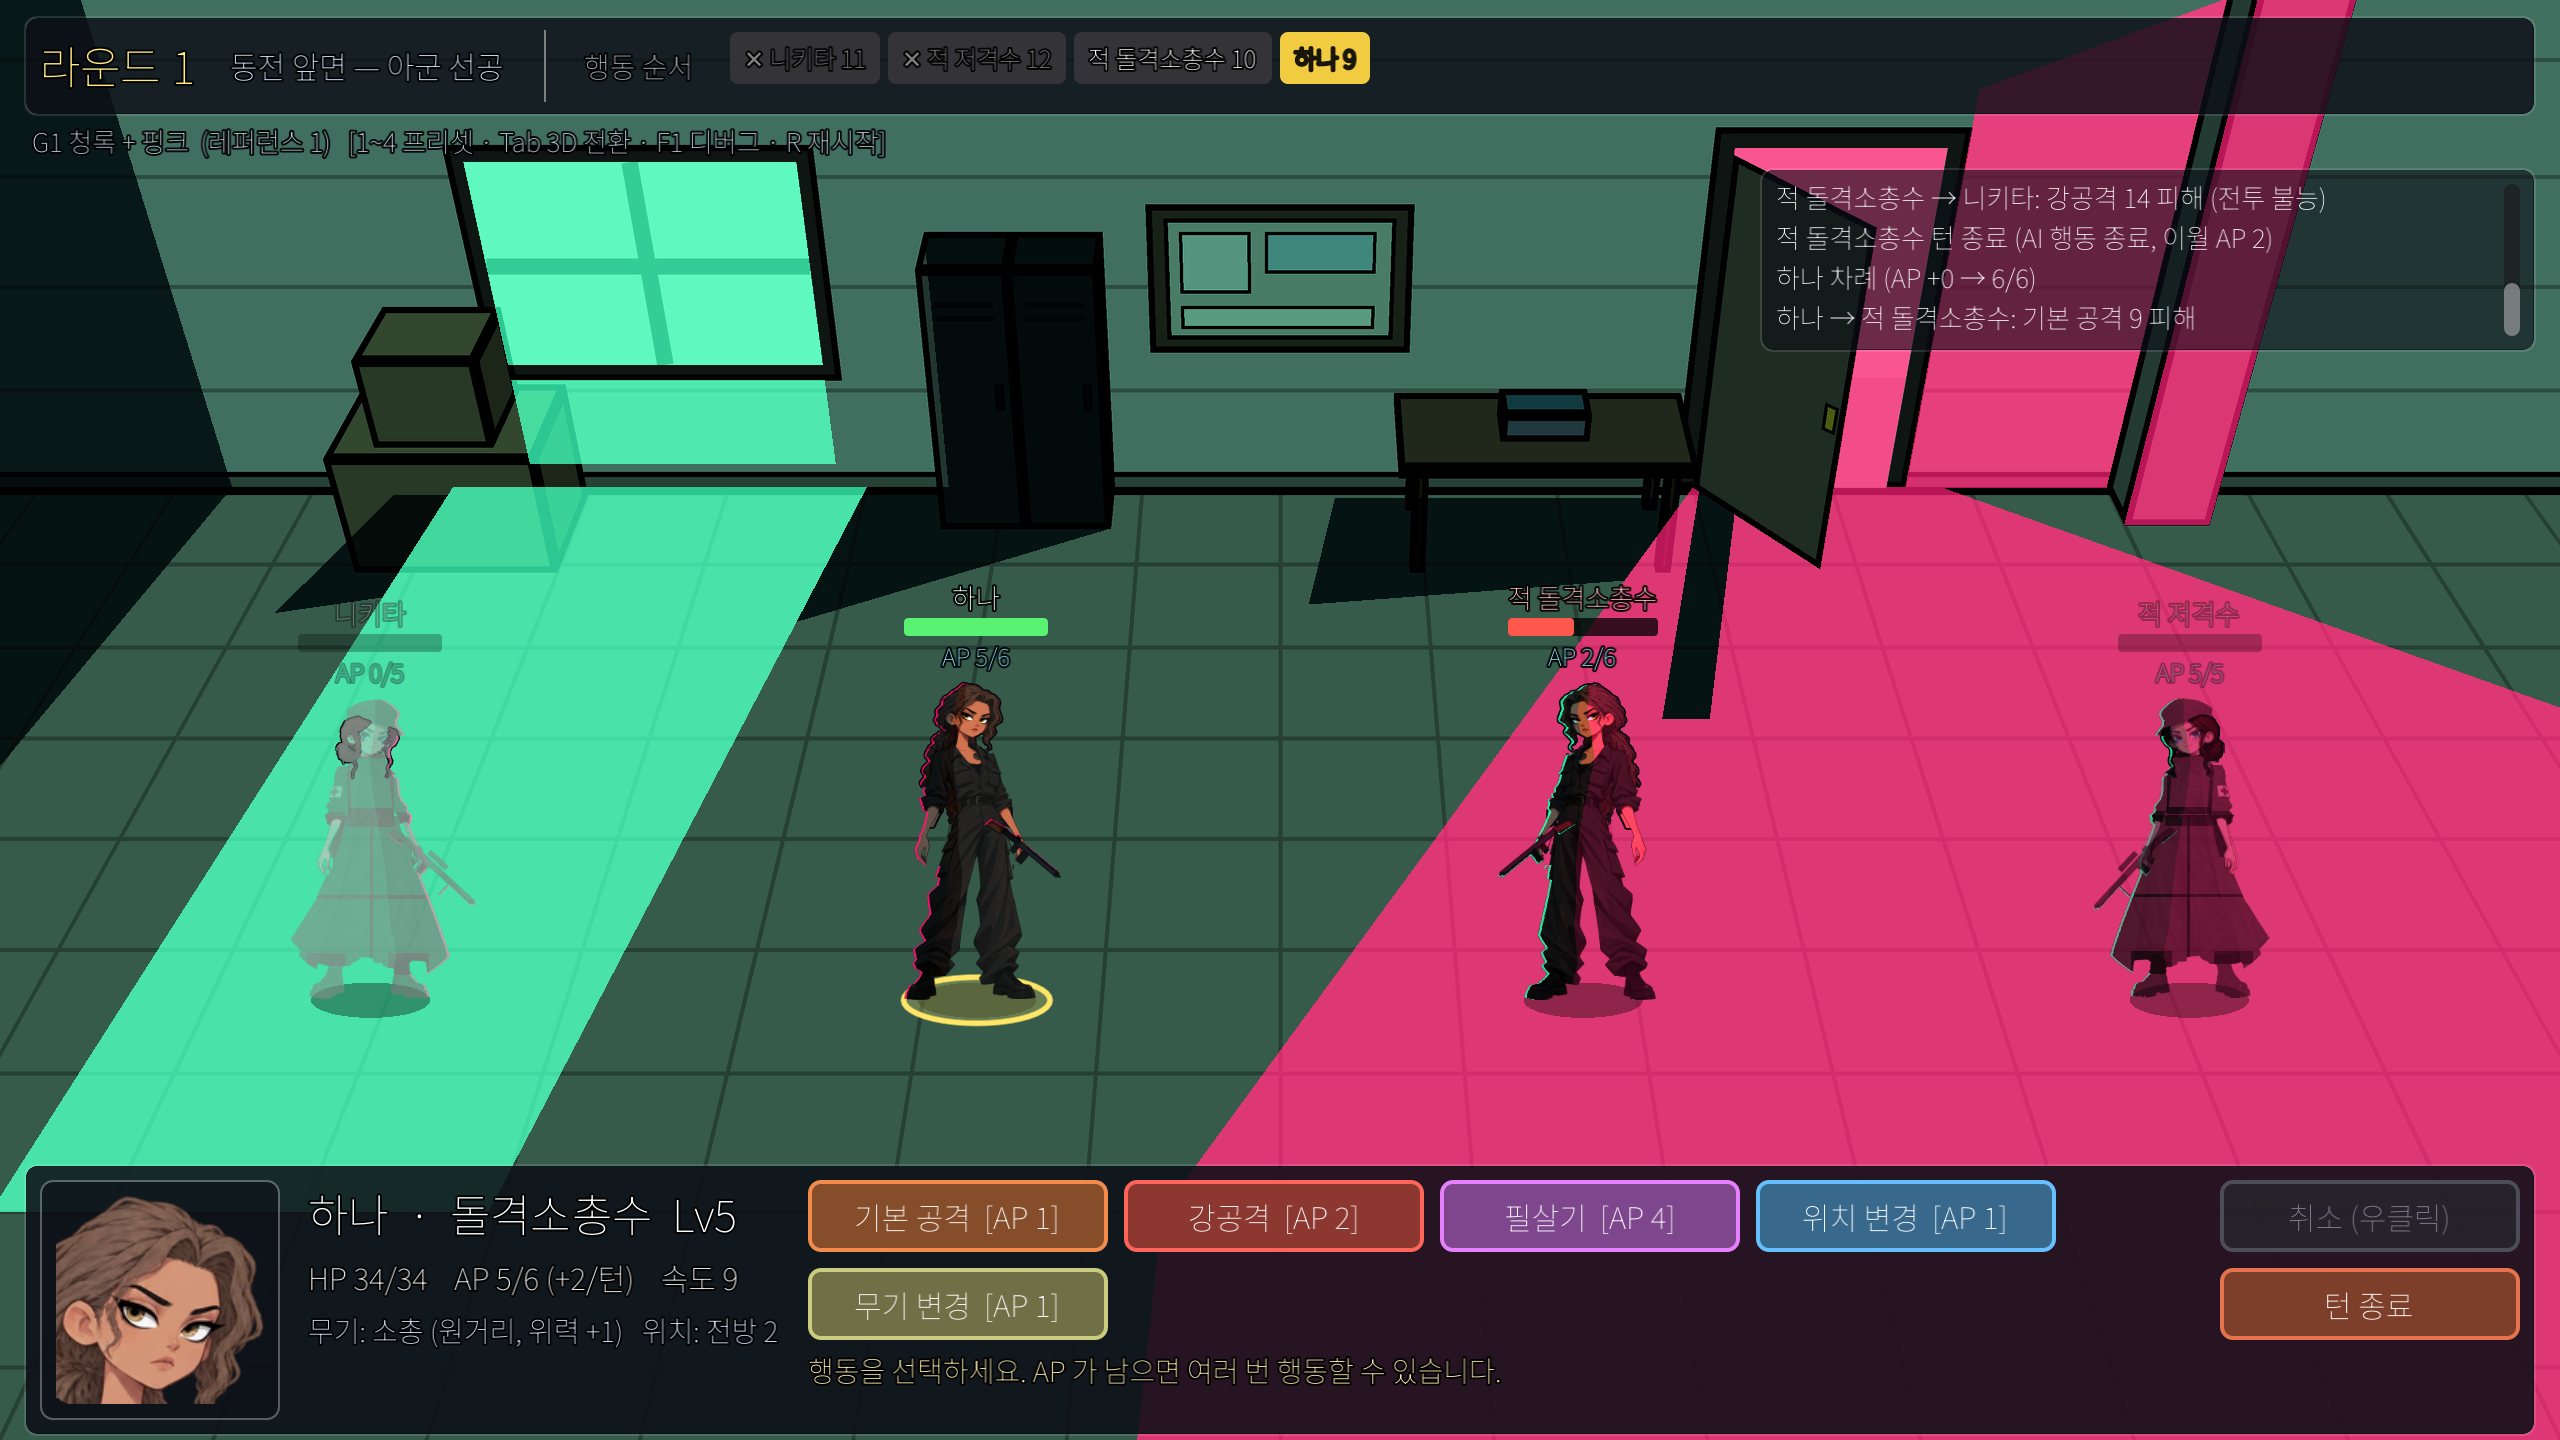
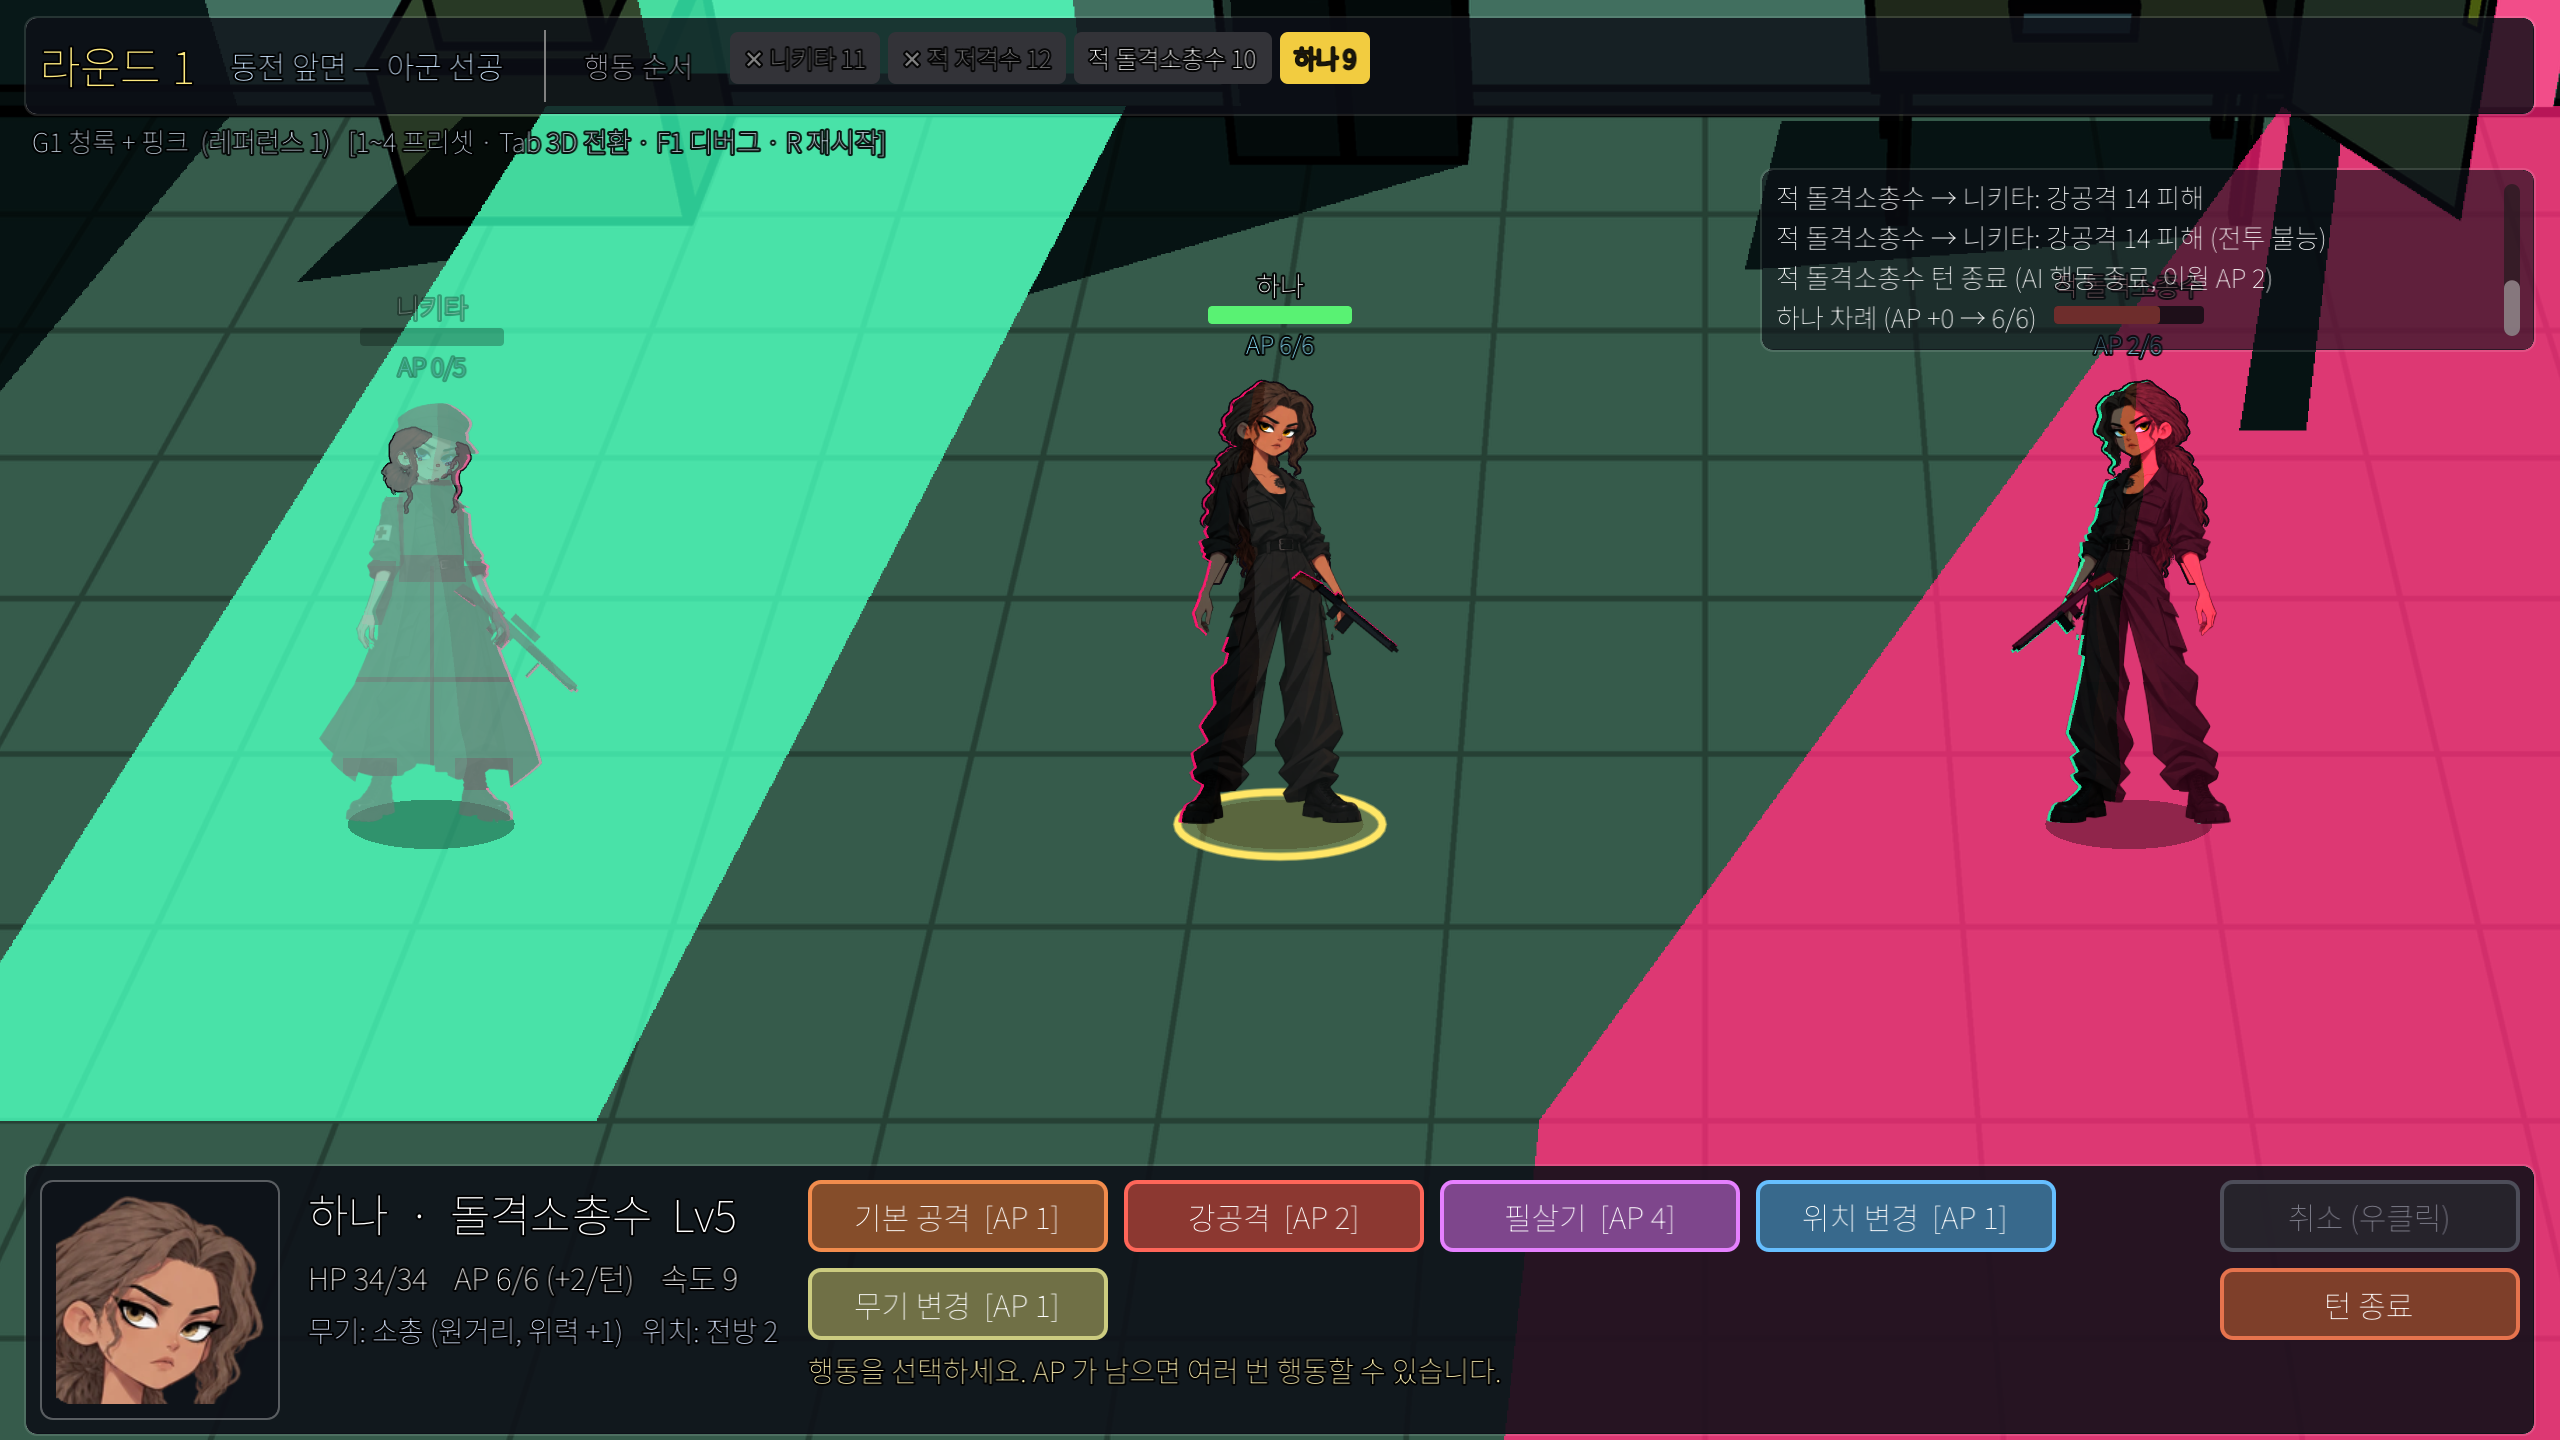
전투 카메라: 시작 시 전체 구도 → 줌인 → 차례 캐릭터 추적
- BattleView2D 에 Camera2D 추가: 전투 시작 1.1초 전체 구도 후 0.9초 동안 1.4배 줌인,
  actor_started 마다 0.55초에 걸쳐 차례 캐릭터를 하단 패널 위 영역 중심으로 이동, 배경 밖 노출 방지
- HP/AP·팝업은 기존 캔버스 변환을 그대로 써서 카메라를 따라감
- CLI --intro=1|hold (스크린샷 기본은 인트로 생략), README, 대표 스크린샷·카메라 시퀀스 이미지

Claude-Session: https://claude.ai/code/session_014aytw3hj7boqn3SZ5GP5ti

diff --git a/README.md b/README.md
@@ -57,6 +57,11 @@ curl -fsSL https://raw.githubusercontent.com/HomilBBANG/rt_zerosum/main/setup/cl
 `python3 tools/rig_cutter.py <id>` → 임포트 후 `tools/set_mipmaps.py` → 로스터에 `sprite_id: "<id>"`, `height_cm` 으로 등록.
 캐릭터 키는 `rig.json` 의 `figure_px`(원화 정수리~발 픽셀)를 화면 230px = 175cm 기준으로 환산해 2D·3D 모두에 반영됩니다.
 
+## 전투 카메라
+전투가 시작되면 먼저 전장 전체 구도를 약 1초 보여준 뒤 1.4배로 줌인하고, 이후 차례가 온 캐릭터를 화면 중심(하단 명령 패널 위쪽)으로
+따라갑니다. 배경 밖은 보이지 않게 제한합니다. 값은 `battle_view_2d.gd` 의 `CAM_*` 상수.
+스크린샷 CLI 는 기본으로 인트로를 건너뛰며 `--intro=1`(재생), `--intro=hold`(전체 구도에서 멈춤)로 바꿀 수 있습니다.
+
 ## Skeleton2D 리그 (2D 확정 후 비용 테스트)
 사용자 제공 원화 1장을 `tools/rig_cutter.py` 로 17개 파츠 + 16개 본 + 파츠별 구역 마스크로 잘라 `assets/sprites/rig_<id>/` 에 두고,
 `RiggedUnit2D` 가 rig.json 으로 Bone2D 트리와 애니메이션(idle/attack/hit/heal/death)을 만든다. 아군 '라온' 슬롯이 이 캐릭터다.
